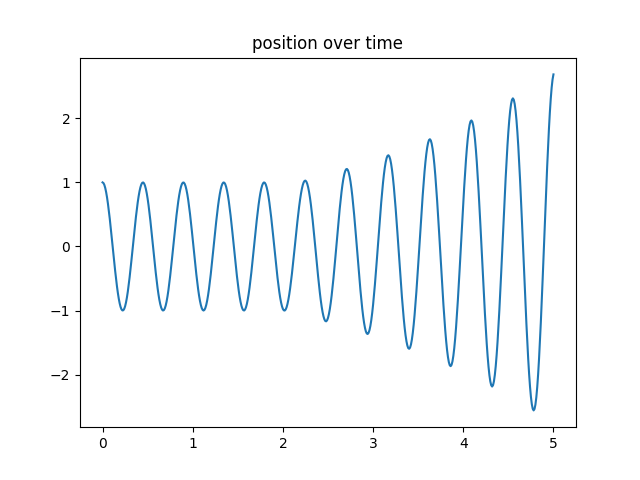
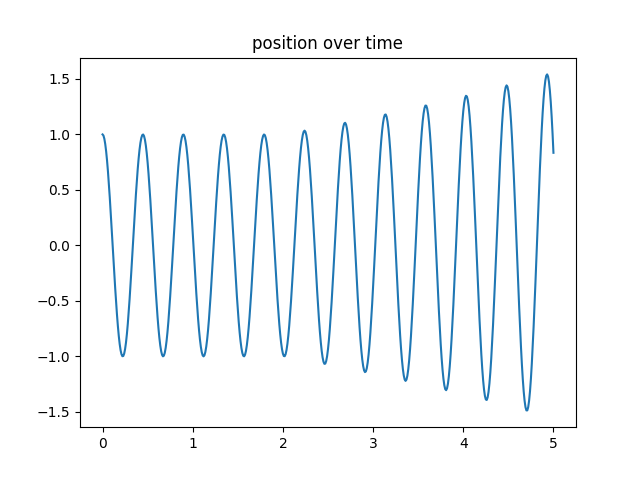
Align text and pictures

diff --git a/cases/oscillator-controlled/README.md b/cases/oscillator-controlled/README.md
@@ -48,14 +48,17 @@ Each simulation run creates two files. The file of the oscillator, called `traje
 python3 plot-trajectory.py python/output/trajectory-Mass.csv U_OVER_T
 ```
 
-The solvers allow you to study the effect of different control gains. The controller is activated at `t=2` with a setpoint of `r=0`.
+The solvers allow you to study the effect of different control gains. The controller is activated at `t=2`.
 
-With the gains `k_p=800`, `k_i=25` and `k_d=20` the system reaches stability:
+With a setpoint of `r=0.0` and the gains `k_p=800`, `k_i=25` and `k_d=20`, the system reaches stability:
 
-![Mass position for stable gains](images/tutorials-oscillator-trajectory-control-stable.png)
+![Mass position for stable gains](images/tutorials-oscillator-trajectory-control-stable-1.png)
 
+Let's check if these gains also work for a setpoint of `r=0.5`. The results show stability with an offset, indicating that the gains have not been chosen optimally:
 
-However, with the gains `k_p=800`, `k_i=25` and `k_d=20` the system diverges:
+![Mass position for stable gains](images/tutorials-oscillator-trajectory-control-stable-2.png)
+
+However, with the gains `k_p=0`, `k_i=19` and `k_d=-0.3` the system clearly diverges:
 
 ![Mass position for unstable gains](images/tutorials-oscillator-trajectory-control-unstable.png)
 
@@ -74,7 +77,7 @@ Results of the implicit coupling look very different:
 
 ![Mass position for serial-implicit coupling](images/tutorials-oscillator-trajectory-control-implicit.png)
 
-The problem is clearly related to the checkpointing of the PID. It vanishes when not using checkpoints for the PID in implicit coupling.
+The problem is clearly related to the checkpointing of the PID, especially the kp gain. It vanishes when not using checkpoints for the PID in implicit coupling.
 
 ## References
 
